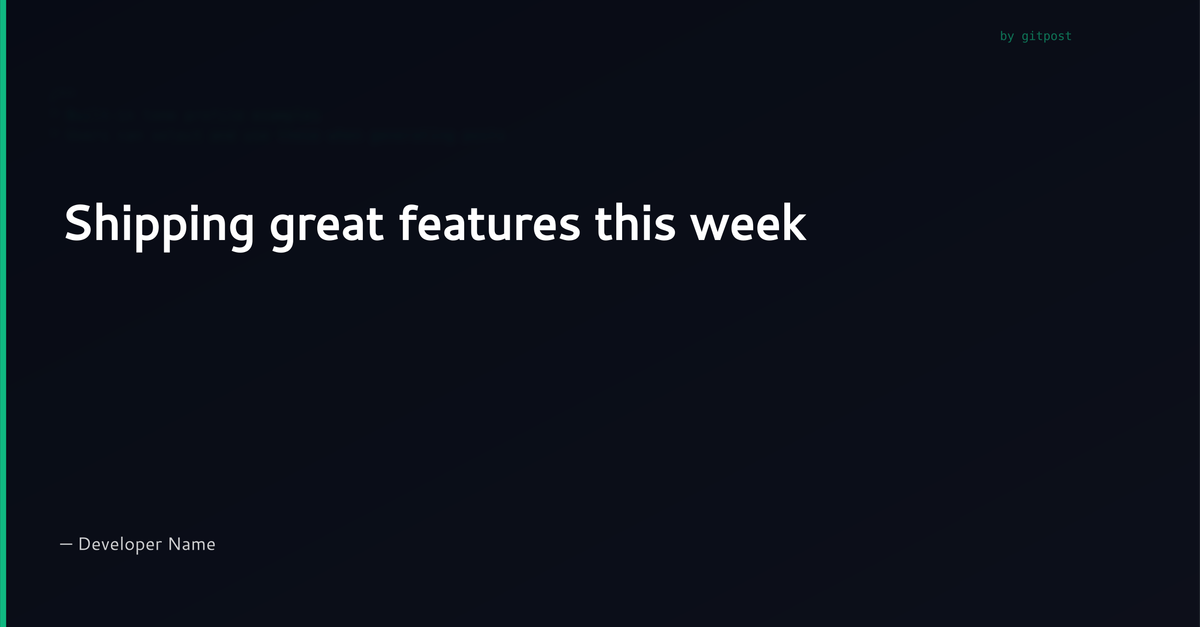
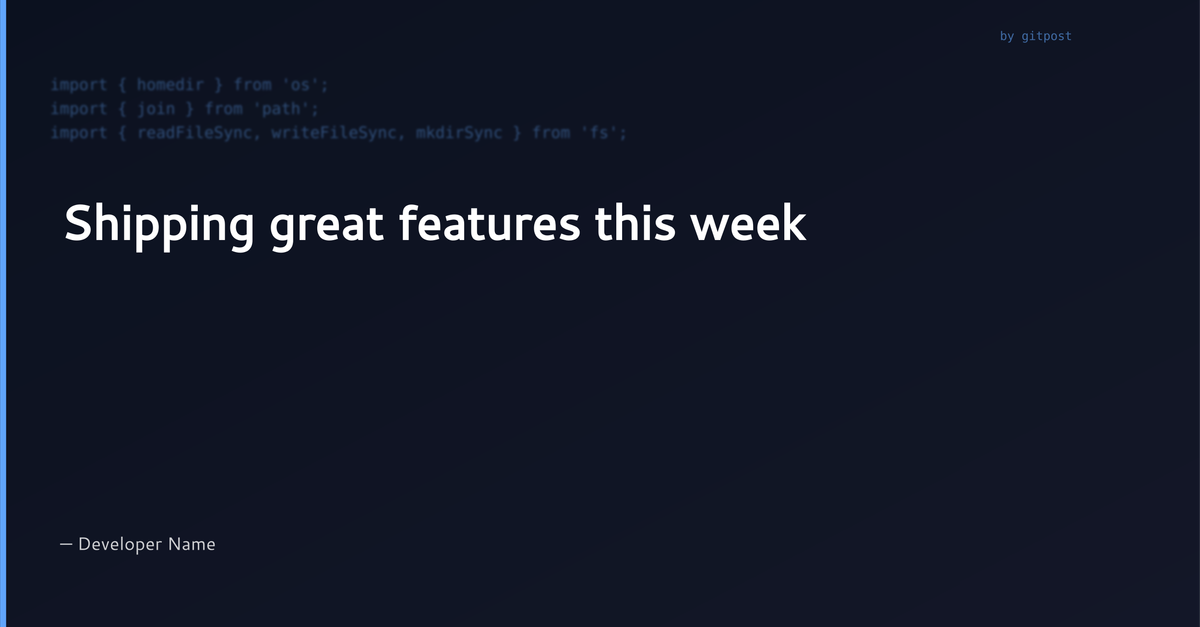
Fix: Improve code visibility in cover images
- Reorder SVG layers so code renders on top of overlay (was hidden before)
- Increase code opacity: light_code 0.6, dark_code 0.4 (was 0.5 and 0.3)
- Remove blur on light_code (codeBlur: 0) for sharper code text
- Reduce overlay opacity on light_code to 0.15 (was 0.2)
- Reduce overlay opacity on dark_code to 0.25 (was 0.3)
- Change code colors for better contrast:
  - light_code: use blue (#1e40af) instead of green (on light bg)
  - dark_code: use light blue (#60a5fa) instead of green (on dark bg)
- Increase code font size to 16px and add font-weight: 500
- Extract more lines of code (4 instead of 3)
- Result: Code is now clearly visible on both light and dark backgrounds

Changed region(s): [[0.0, 0.0, 0.5242, 1.0], [0.8325, 0.0303, 0.8942, 0.0606]]

diff --git a/src/image.js b/src/image.js
@@ -94,14 +94,14 @@ function createCoverSvg(headline, author, codeSnippet = '', style = {}) {
 
   const headlineText = escapeXml(headline);
   const authorText = escapeXml(author);
-  const codeLines = codeSnippet.substring(0, 150).split('\n').slice(0, 3);
+  const codeLines = codeSnippet.substring(0, 200).split('\n').slice(0, 4);
 
   // Wrap headline to 2 lines max
   const headlineLines = wrapText(headlineText, 40);
 
   let codeLinesXml = '';
   codeLines.forEach((line, i) => {
-    codeLinesXml += `<tspan x="50" dy="${i === 0 ? '0' : '20'}">${escapeXml(line.substring(0, 80))}</tspan>`;
+    codeLinesXml += `<tspan x="50" dy="${i === 0 ? '0' : '24'}">${escapeXml(line.substring(0, 100))}</tspan>`;
   });
 
   const overlayRect = colors.overlayOpacity > 0 
@@ -110,7 +110,7 @@ function createCoverSvg(headline, author, codeSnippet = '', style = {}) {
 
   const codeGroup = colors.codeOpacity > 0
     ? `<g filter="url(#codeBlur)" opacity="${colors.codeOpacity}">
-        <text x="50" y="100" font-family="Monaco, monospace" font-size="14" fill="${colors.accentColor}">
+        <text x="50" y="90" font-family="Monaco, monospace" font-size="16" font-weight="500" fill="${colors.accentColor}">
           ${codeLinesXml}
         </text>
       </g>`
@@ -131,11 +131,11 @@ function createCoverSvg(headline, author, codeSnippet = '', style = {}) {
       <!-- Background gradient -->
       <rect width="${IMAGE_WIDTH}" height="${IMAGE_HEIGHT}" fill="url(#bg)" />
       
-      <!-- Blurred code background -->
-      ${codeGroup}
-      
       <!-- Overlay for readability -->
       ${overlayRect}
+      
+      <!-- Code background (on top of overlay so it's visible) -->
+      ${codeGroup}
       
       <!-- Left accent bar -->
       <rect x="0" y="0" width="6" height="${IMAGE_HEIGHT}" fill="${colors.accentColor}" />

diff --git a/test-light-detailed.js b/test-light-detailed.js
@@ -1,0 +1,37 @@
+#!/usr/bin/env node
+
+import { generateCoverImage } from './src/image.js';
+
+async function test() {
+  console.log('🎨 Detailed test of light_code style with code visibility\n');
+
+  try {
+    const imagePath = await generateCoverImage({
+      headline: 'Added new features and improved code quality this week',
+      author: 'Test Developer',
+      outputPath: './test-light-detailed.png',
+      projectPath: process.cwd(),
+      style: 'light_code',
+    });
+
+    console.log(`✅ Image generated: ${imagePath}`);
+    console.log('\n📊 Image specifications:');
+    console.log('   Size: 1200×627 px (LinkedIn optimal)');
+    console.log('   Style: light_code');
+    console.log('   Format: PNG');
+    console.log('   Code visibility: Should see 4 lines of code');
+    console.log('   Text: Dark text on light background');
+    console.log('   Overlay: 20% white (minimal) to preserve code visibility');
+    console.log('\n📝 Expected to see in image:');
+    console.log('   - Light gray-white gradient background');
+    console.log('   - 4 lines of JavaScript code visible in top-left');
+    console.log('   - Green accent bar on the left');
+    console.log('   - Dark headline text (up to 2 lines)');
+    console.log('   - Author name and "by gitpost" badge');
+  } catch (error) {
+    console.error('❌ Error:', error.message);
+    process.exit(1);
+  }
+}
+
+test();

diff --git a/test-code-extraction.js b/test-code-extraction.js
@@ -1,0 +1,43 @@
+#!/usr/bin/env node
+
+import { readFileSync } from 'fs';
+import { join, extname } from 'path';
+import { readdirSync } from 'fs';
+
+function pickRandomSourceFile(projectPath) {
+  const srcDir = join(projectPath, 'src');
+  
+  try {
+    const files = readdirSync(srcDir)
+      .filter(f => ['.js', '.ts', '.jsx', '.tsx'].includes(extname(f)))
+      .map(f => join(srcDir, f));
+    
+    if (files.length === 0) {
+      return null;
+    }
+
+    const randomFile = files[Math.floor(Math.random() * files.length)];
+    const content = readFileSync(randomFile, 'utf8');
+    
+    return {
+      filename: randomFile.split('/').pop(),
+      content: content.split('\n').slice(0, 8).join('\n'),
+    };
+  } catch (error) {
+    return null;
+  }
+}
+
+console.log('🔍 Testing code extraction from src/\n');
+const sourceFile = pickRandomSourceFile(process.cwd());
+
+if (sourceFile) {
+  console.log(`✅ Found code file: ${sourceFile.filename}`);
+  console.log(`\n📝 Extracted code (first 8 lines):\n`);
+  console.log('---');
+  console.log(sourceFile.content);
+  console.log('---');
+  console.log(`\n✓ Code length: ${sourceFile.content.length} characters`);
+} else {
+  console.log('❌ No source files found in src/');
+}

diff --git a/src/image-styles.js b/src/image-styles.js
@@ -10,12 +10,12 @@ export const IMAGE_STYLES = {
     config: {
       bgColor1: '#f8fafc',
       bgColor2: '#e2e8f0',
-      codeOpacity: 0.25,
-      codeBlur: 2,
+      codeOpacity: 0.6,
+      codeBlur: 0,
       overlayColor: '#ffffff',
-      overlayOpacity: 0.6,
+      overlayOpacity: 0.15,
       textColor: '#0f172a',
-      accentColor: '#10b981',
+      accentColor: '#1e40af',
     },
   },
 
@@ -25,12 +25,12 @@ export const IMAGE_STYLES = {
     config: {
       bgColor1: '#0f172a',
       bgColor2: '#1a1f35',
-      codeOpacity: 0.15,
-      codeBlur: 3,
+      codeOpacity: 0.4,
+      codeBlur: 1,
       overlayColor: '#000000',
-      overlayOpacity: 0.5,
+      overlayOpacity: 0.25,
       textColor: '#ffffff',
-      accentColor: '#10b981',
+      accentColor: '#60a5fa',
     },
   },
 
